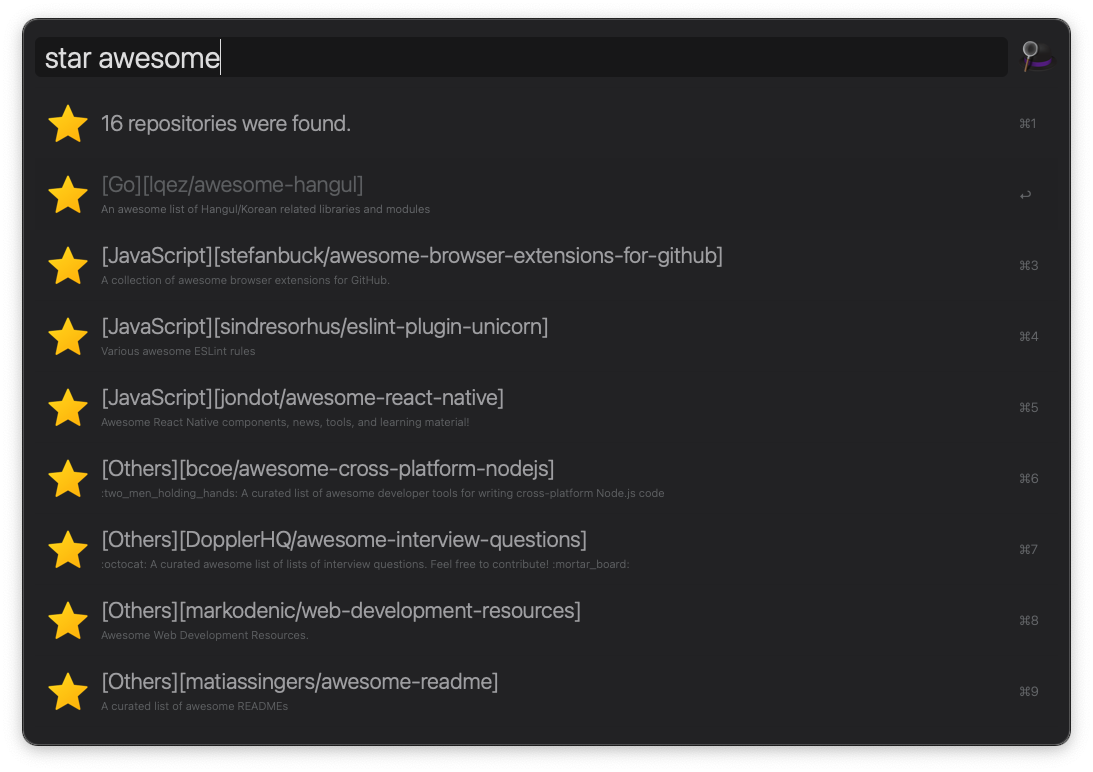
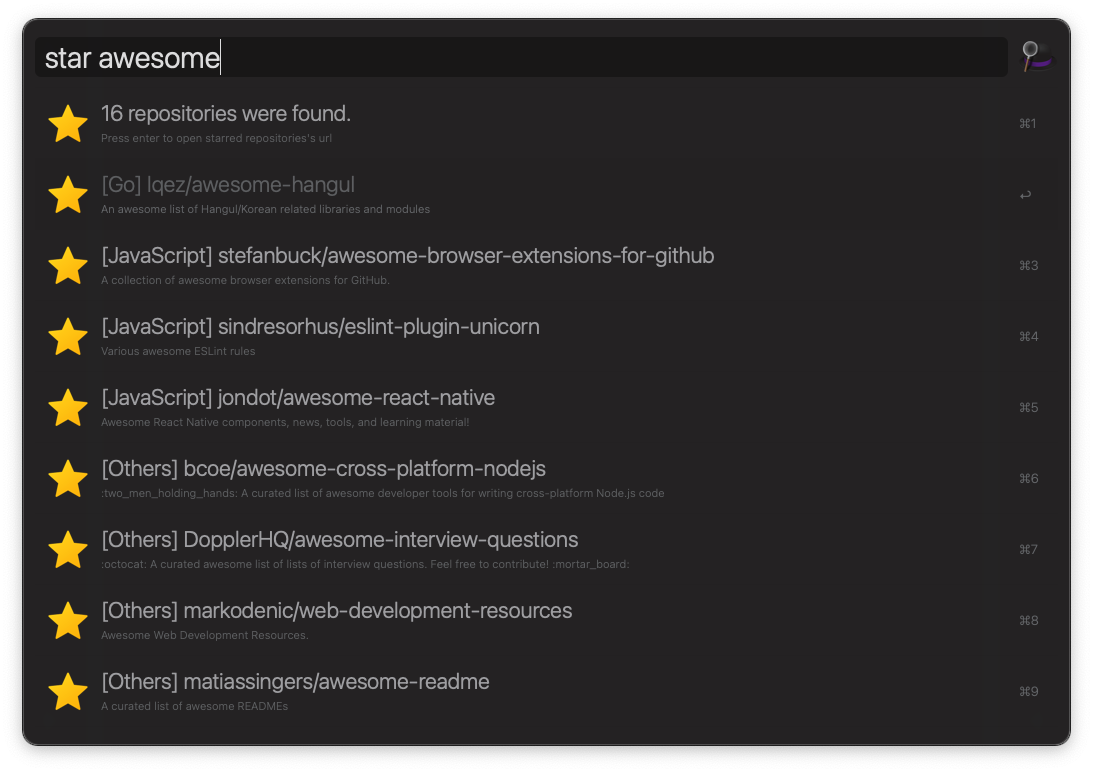
Upd

diff --git a/index.js b/index.js
@@ -31,7 +31,7 @@ const removeBraket = (str) => {
 }
 
 const transformData = (lang, repoInfo) => {
-  const title = `[${lang}][${repoInfo.maintainer}/${repoInfo.repoName}]`;
+  const title = `[${lang}] ${repoInfo.maintainer}/${repoInfo.repoName}`;
   return {
     title,
     subtitle: repoInfo.description,
@@ -44,7 +44,10 @@ const transformData = (lang, repoInfo) => {
 };
 
 (async () => {
-  const starredListRawString = Buffer.from((await alfy.fetch(url, { maxAge: 60 * 60 * 24 })).content, 'base64').toString('utf8');
+  const starredListRawString =
+    await alfy.fetch(url, { maxAge: 60 * 60 * 24 })
+      .then((response) => response.content)
+      .then((content) => Buffer.from(content, 'base64').toString('utf-8'));
 
   const splits = starredListRawString.split(/(\#\#.*)/);
 
@@ -80,6 +83,8 @@ const transformData = (lang, repoInfo) => {
 
   const summary = {
     title: `${result.length} repositories were found.`,
+    subtitle: 'Press enter to open starred repositories\'s url',
+    arg: `https://github.com/${id}?tab=stars`
   };
 
   alfy.output([
